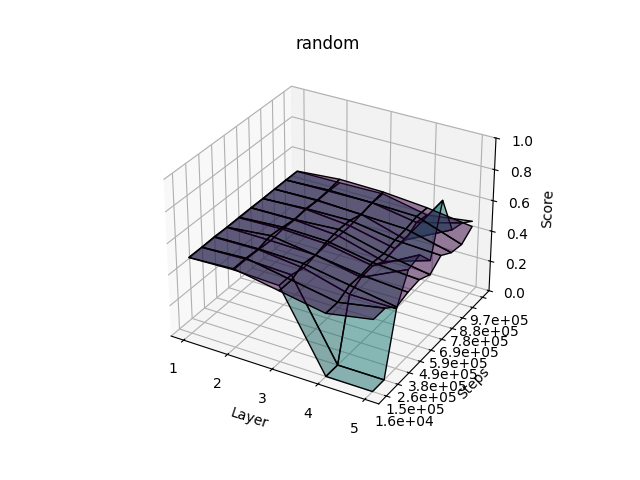
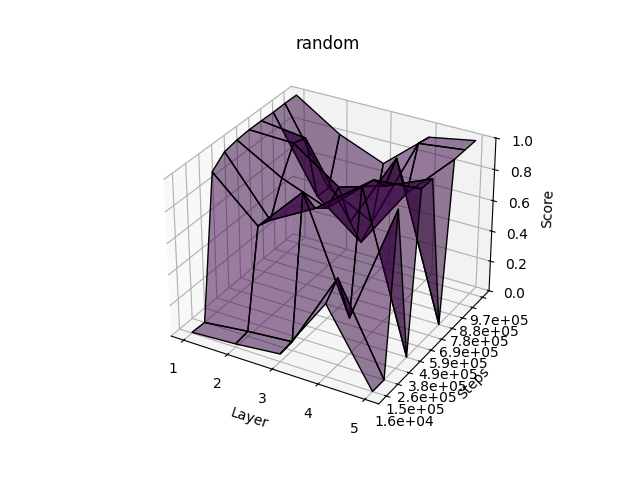
fix: cav

Changed region(s): [[0.2812, 0.1875, 0.75, 0.8125]]

diff --git a/methods/src/cav/cav.py b/methods/src/cav/cav.py
@@ -64,13 +64,13 @@ class CAV:
             test_data, test_labels = test_data_handler.get_data_lists()
 
         positive_activations, positive_output = self._compute_activations(
-            positive_data, requires_grad=False
+            positive_data, requires_grad=True
         )
         negative_activations, negative_output = self._compute_activations(
-            negative_data, requires_grad=False
+            negative_data, requires_grad=True
         )
         test_activations, test_output = self._compute_activations(
-            test_data, requires_grad=False
+            test_data, requires_grad=True
         )
 
         cavs = {}
@@ -82,15 +82,14 @@ class CAV:
                 positive_activations[layer], negative_activations[layer]
             )
             cav = self._cav(regressor)
-            # tcav_score = self._tcav_score(test_activations[layer], test_output, cav)
+            tcav_score = self._tcav_score(test_activations[layer], test_output, cav)
             binary_concept_score = self._binary_concept_score(
                 test_activations[layer], regressor
             )
 
             cavs[layer] = cav
             binary_concept_scores[layer] = binary_concept_score
-            # tcav_scores[layer] = tcav_score
-            tcav_scores[layer] = 0.0
+            tcav_scores[layer] = tcav_score
 
         return cavs, binary_concept_scores, tcav_scores
 
@@ -119,13 +118,14 @@ class CAV:
         combined_activations = np.concatenate([pos_act, neg_act])
         combined_labels = np.concatenate([positive_labels, negative_labels])
 
-        """
         idx = np.random.permutation(combined_activations.shape[0])
         combined_activations = combined_activations[idx]
         combined_labels = combined_labels[idx]
-        """
 
-        regressor = LogisticRegression()
+        regressor = LogisticRegression(warm_start=True)
+        # Randomize weights
+        regressor.coef_ = np.random.rand(1, combined_activations.shape[1])
+        regressor.intercept_ = np.random.rand(1)
         regressor.fit(combined_activations, combined_labels)
 
         return regressor
@@ -155,7 +155,7 @@ class CAV:
             retain_graph=True,
         )[0]
 
-        grads_flattened = grads.view(grads.size(0), -1)
+        grads_flattened = grads.view(grads.size(0), -1).detach().numpy()
 
         return np.dot(grads_flattened, cav.T)
 

diff --git a/methods/src/cav/__main__.py b/methods/src/cav/__main__.py
@@ -15,11 +15,12 @@ action_space = gym.action_space
 
 env = CAVWrapper(gym)
 concept_names = env.get_concept_names()
+concept_names = ["random", "box-not-exist", "agents-far-apart"]
 
 
-def plot(positive_concept: str, cav_scores: list, steps: list, prefix: str = ""):
+def plot(positive_concept: str, scores: list, steps: list, prefix: str = ""):
     Analysis.plot(
-        cav_scores,
+        scores,
         steps,
         filename=f"{positive_concept}{prefix}.png",
         title=positive_concept,
@@ -34,13 +35,13 @@ def analyse(
     tcav_scores = []
     steps = []
 
-    for suffix in ["0", "1"]:
+    for suffix in ["0"]:
         model = DQNPolicy(observation_space, action_space, [128, 128], [32, 32])
         models = Models(model, folder_suffix=suffix)
         analysis = Analysis(
             models, positive_concept + ".csv", negative_concept + ".csv"
         )
-        analysis.run(averages=1)
+        analysis.run(averages=2)
         cav_scores.append(analysis.cav_scores)
         tcav_scores.append(analysis.tcav_scores)
         steps.append(analysis.steps)
@@ -53,4 +54,4 @@ for concept in concept_names:
     cav_scores, tcav_scores, steps = analyse(
         concept, negative_concept, observation_space, action_space
     )
-    plot(concept, tcav_scores, steps, prefix="_tcav")
+    plot(concept, tcav_scores, steps, prefix="")

diff --git a/methods/src/cav/analysis.py b/methods/src/cav/analysis.py
@@ -43,7 +43,6 @@ class Analysis:
         self._cavs = {}
         self._binary_concept_scores = {}
         self._tcav_scores = {}
-        np.random.seed(0)
 
     def _add_total_cav_scores(self):
         for model, layers in self._cav_scores.items():
